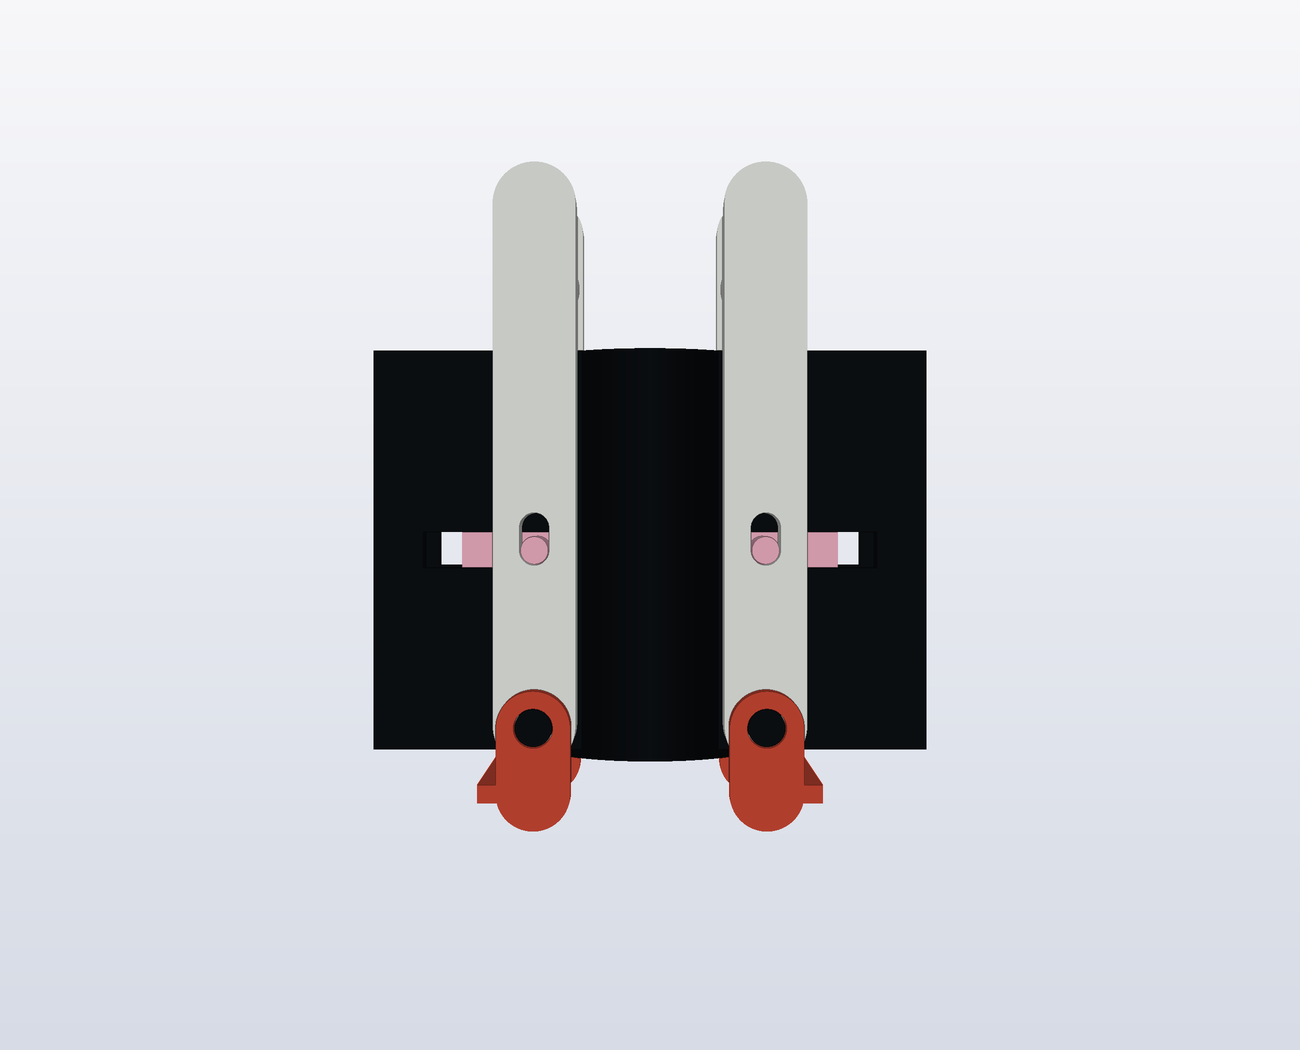
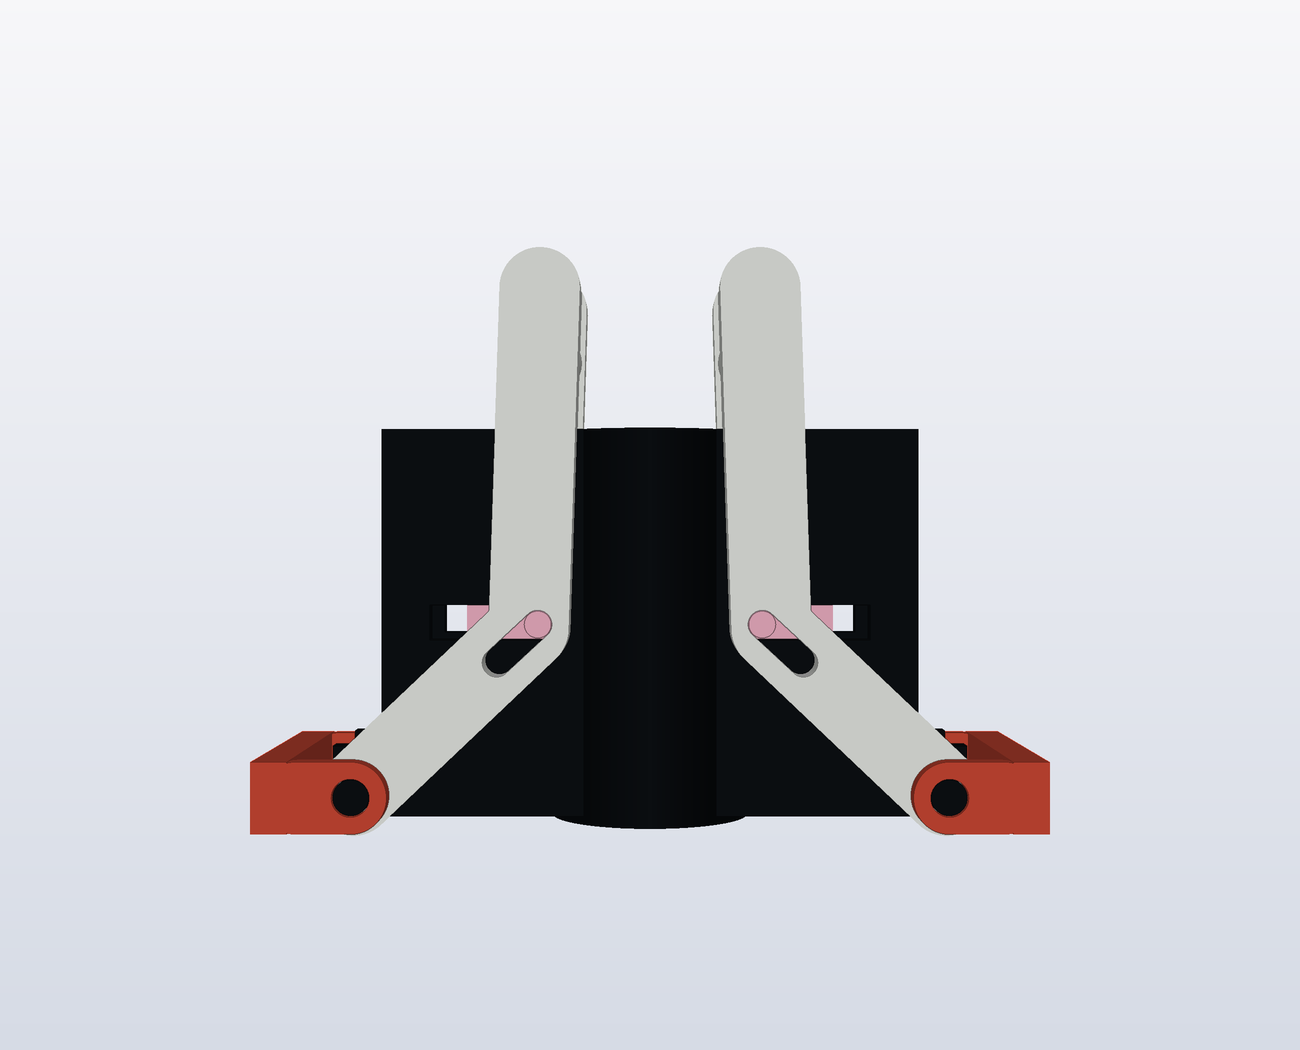
twist-grip: move the pivot outboard, crank the lever, brace off the front
The pivot post moves from r 25 to r 66, past the end of the guide wall,
on a boss off each wall. The brace that caps it now reaches across beside
the body at z 0..16 instead of wrapping round the entrance, so the way in
is clear.

The crank the sketch anticipated is needed, and for a reason worth
writing down: span is twice wherever the hand lands, so a straight bar
from a pivot that far out would put the hand out there too. The lever
runs inboard from the pivot to the drive slot, then back and in to the
grab bar at r 25.

Moving the pivot out pays for itself twice over. The arm is longer and
leans inboard, so the same 20 mm of jaw travel takes 18.3 degrees of
swing instead of 27.8, and the squeeze drops from a 93 mm stroke to 67:
117 mm open against 50 shut, which a hand can actually close. Springing
the lever onto the posts eases from 54 N to 43 N at 1.20% strain.

The arm no longer meets the drive post square, so the post slides
55.9 -> 43.4 mm along it and the slot grows to 12.49 mm. The slot is cut
along the arm, not along the lever's long branch.

One ordering bug found by the checks: the pivot boss was being fused on
after the grooves were cut, which filled the outer end of the front
groove -- exactly where that runner sits at full open, so the jaw jammed
on it at one end of the travel and nowhere else. The boss now goes on
before the grooves.

41 checks, all passing, including four new ones: the pivot outboard of
[…]

Changed region(s): [[0.1846, 0.1524, 0.8308, 0.7924]]

diff --git a/twist-grip/concept_lever.py b/twist-grip/concept_lever.py
@@ -83,18 +83,35 @@ BRACE_Y0 = LEVER_Y1 + FIT              # 26.55
 BRACE_T = 4.0
 BRACE_Y1 = BRACE_Y0 + BRACE_T          # 30.55
 
-PIVOT = (25.0, 8.0)                    # near the front, on the wall's face
+# The pivot sits OUTBOARD of the body, past the walls, so the brace that
+# caps it can reach across from one side to the other beside the body
+# instead of wrapping round the front of the entrance. It costs a boss on
+# each wall and buys a longer, more inclined arm: 18.3 degrees of swing
+# instead of 27.8, and a 67 mm squeeze instead of 93.
+PIVOT = (66.0, 8.0)
+PIVOT_BOSS_X = (56.0, 72.0)
+PIVOT_BOSS_Z = (2.0, 18.0)
 DRIVE_Z = (JAW_Z0 + JAW_Z1) / 2.0      # 46.0, the middle of the jaw
-ARM = DRIVE_Z - PIVOT[1]               # 60.0
-DRIVE_LOCAL = PIVOT[0]                 # the post's x in jaw-local terms
-PSI_OPEN = math.atan(P.JAW_TRAVEL / ARM)
+DRIVE_LOCAL = 25.0                     # the post's x in jaw-local terms
+DZ_ARM = DRIVE_Z - PIVOT[1]            # 38.0, the only term that sets sense
+# The arm now leans inboard, so its angle -- not a plain tangent -- carries
+# the jaw. Rotation about the pivot drops the arm's polar angle, and the
+# post, held at one height by the runners, slides along the arm as it goes.
+ALPHA_SHUT = math.atan2(DZ_ARM, DRIVE_LOCAL - PIVOT[0])
+ALPHA_OPEN = math.atan2(DZ_ARM, DRIVE_LOCAL + P.JAW_TRAVEL - PIVOT[0])
+PSI_OPEN = ALPHA_SHUT - ALPHA_OPEN
 PSI_SHUT = 0.0
+ARM_SHUT = DZ_ARM / math.sin(ALPHA_SHUT)
+ARM_OPEN = DZ_ARM / math.sin(ALPHA_OPEN)
 LEVER_OVERHANG = 40.0
 LEVER_TIP_Z = BODY_H + LEVER_OVERHANG   # 130
 POST_D, DRIVE_D = 8.0, 6.0
 LEVER_HALF_W = 9.0
 GRIP_R = 8.0                           # the round bar tying the two sides
-GRIP_D = 100.0                         # the earliest it clears the body
+GRIP_Z = 108.0                         # the grab bar, clear behind the body
+KNEE = (27.0, 45.0)                    # where the lever cranks inboard
+LEVER_END = (24.5, 121.0)
+BRACE_WEB_X = (80.0, 88.0)             # the web crosses outboard of the lever
 
 RAIL_X = (19.0, 39.0)
 GROOVE_X = (RAIL_X[0], RAIL_X[1] + P.JAW_TRAVEL)
@@ -122,12 +139,14 @@ SHOW = dict(ambient=0.74, key=0.34, fill=0.20, spec=0.12, edges=0.46)
 # ---------------------------------------------------------------------------
 
 def face_at(psi):
-    """Radius of the jaw's gripping face: 0 shut, 20 mm open.
+    """Radius of the jaw's gripping face: 0 shut, 20 mm open."""
+    return (PIVOT[0] + DZ_ARM / math.tan(ALPHA_SHUT - psi)) - DRIVE_LOCAL
 
-    The jaw post sits at one fixed height, so the lever's angle and the
-    jaw's radius are related by a tangent, not a sine.
-    """
-    return ARM * math.tan(psi)
+
+def on_arm(r):
+    """A point r along the arm, in the lever's own (shut) frame."""
+    return (PIVOT[0] + r * math.cos(ALPHA_SHUT),
+            PIVOT[1] + r * math.sin(ALPHA_SHUT))
 
 
 def drive_at(psi):
@@ -141,7 +160,7 @@ def swung(mesh, psi):
     return m
 
 
-SLOT_RUN = math.hypot(ARM, P.JAW_TRAVEL) - ARM      # 3.25 mm
+SLOT_RUN = ARM_SHUT - ARM_OPEN
 
 
 # ---------------------------------------------------------------------------
@@ -206,6 +225,13 @@ def _wall(sign):
     w = T.bar(WALL_X[1] - WALL_X[0], WALL_Y1 - WALL_Y0,
               WALL_Z[0], WALL_Z[1], x0=WALL_X[0])
     w.apply_translation((0.0, sign * (WALL_Y0 + WALL_Y1) / 2.0, 0.0))
+    # the boss goes on before the grooves are cut: added after, it fills the
+    # outer end of the front groove, exactly where that runner sits at full
+    # open, and the jaw jams on it
+    boss = T.bar(PIVOT_BOSS_X[1] - PIVOT_BOSS_X[0], WALL_Y1 - WALL_Y0,
+                 *PIVOT_BOSS_Z, x0=PIVOT_BOSS_X[0])
+    boss.apply_translation((0.0, sign * (WALL_Y0 + WALL_Y1) / 2.0, 0.0))
+    w = T.fuse(w, boss)
     for zc in RAIL_Z:
         w = T.cut(w, prism_x(vee(WALL_Y0 - 1.35, GROOVE_TIP, zc, sign),
                              GROOVE_X[0], GROOVE_X[1]))
@@ -255,48 +281,50 @@ def jaw(psi, index):
     return T.spun(solid, 180.0 * index)
 
 
-def lever(psi, index, grip_d=GRIP_D):
-    """One piece. Two plates straddling the body, each with a round hole on
-    the pivot post and a short slot on the jaw post, tied near the far end
-    by a round bar that is also what the hand closes on.
+def grip_xy():
+    """Where the grab bar sits, on the lever's long branch."""
+    (kx, kz), (ex, ez) = KNEE, LEVER_END
+    t = (GRIP_Z - kz) / (ez - kz)
+    return (kx + t * (ex - kx), GRIP_Z)
 
-    The bar has to sit past the back of the body. It spans the whole width,
-    so anywhere inside the body's own length it would run straight through
-    the guide walls -- there is no path from one side to the other except
-    in front of the entrance or behind the back face, and only the back has
-    any leverage.
+
+def lever(psi, index):
+    """One cranked piece. The pivot hole is outboard, past the body; the
+    arm leans inboard to the drive slot, and the long branch carries on
+    back to the grab bar that ties the two sides together.
+
+    The crank is what the outboard pivot costs. A straight bar from a
+    pivot that far out would put the hand out there too, and the span is
+    twice wherever the hand lands.
     """
-    px, pz = PIVOT
-    # the plates stop at the pivot: a tail behind would sweep into the
-    # brace's web, which crosses in front of the body
-    spine = LineString([(px, pz),
-                        (px, LEVER_TIP_Z - LEVER_HALF_W)]).buffer(
-                            LEVER_HALF_W, resolution=16)
+    spine = LineString([PIVOT, KNEE, LEVER_END]).buffer(
+        LEVER_HALF_W, resolution=16)
     pieces = [plate(spine, LEVER_T, LEVER_Y0),
               plate(spine, LEVER_T, -LEVER_Y1),
-              pin(2 * GRIP_R, -LEVER_Y1, LEVER_Y1, (px, pz + grip_d), 1)]
+              pin(2 * GRIP_R, -LEVER_Y1, LEVER_Y1, grip_xy(), 1)]
 
     bore = pin(POST_D + 0.35, -60.0, 60.0, PIVOT, 1)
-    slot_poly = LineString([(px, pz + ARM),
-                            (px, pz + ARM + SLOT_RUN)]).buffer(
-                                (DRIVE_D + 0.35) / 2.0, resolution=16)
+    # the slot runs along the arm, because that is the way the post slides
+    slot_poly = LineString([on_arm(ARM_OPEN), on_arm(ARM_SHUT)]).buffer(
+        (DRIVE_D + 0.35) / 2.0, resolution=16)
     slot = plate(slot_poly, 200.0, -100.0)
     return T.spun(swung(T.cut(T.fuse(*pieces), bore, slot), psi),
                   180.0 * index)
 
 
 def brace(index):
-    """A C channel over one jaw's pair of pivot posts: two flanges with a
-    hole each, tied by a web that crosses clear in front of the body."""
+    """A C channel capping one jaw's pair of pivot posts. With the posts
+    outboard of the walls, its web reaches across beside the body rather
+    than wrapping round the entrance."""
     px, pz = PIVOT
-    tab = LineString([(px, -6.0), (px, pz)]).buffer(8.0, resolution=16)
+    tab = LineString([(px, pz), (BRACE_WEB_X[0] - 2.0, pz)]).buffer(
+        8.0, resolution=16)
     pieces = [plate(tab, BRACE_T, BRACE_Y0),
               plate(tab, BRACE_T, -BRACE_Y1),
-              # the web crosses in front of the body, kept outboard of the
-              # entrance chamfer so nothing narrows the way in
-              T.bar(14.0, 2 * BRACE_Y1, -8.0, -4.0, x0=px - 2.0)]
-    holes = [pin(POST_D + 0.35, -60.0, 60.0, PIVOT, 1)]
-    return T.spun(T.cut(T.fuse(*pieces), *holes), 180.0 * index)
+              T.bar(BRACE_WEB_X[1] - BRACE_WEB_X[0], 2 * BRACE_Y1,
+                    0.0, 16.0, x0=BRACE_WEB_X[0])]
+    hole = pin(POST_D + 0.35, -60.0, 60.0, PIVOT, 1)
+    return T.spun(T.cut(T.fuse(*pieces), hole), 180.0 * index)
 
 
 def scene(psi, braces=True):
@@ -349,8 +377,8 @@ def checks():
     ok("the brace is one piece",
        len(br.split(only_watertight=False)) == 1)
     ok("the lever runs 40 mm past the body",
-       abs((lv.bounds[1][2] - BODY_H) - LEVER_OVERHANG) < 1e-6,
-       f"tip at z {lv.bounds[1][2]:.0f}")
+       abs((lv.bounds[1][2] - BODY_H) - LEVER_OVERHANG) < 0.3,
+       f"{lv.bounds[1][2] - BODY_H:.1f} mm past, tip at z {lv.bounds[1][2]:.1f}")
     ok("the jaw post stops flush with the lever's outer face",
        abs(DRIVE_TIP - LEVER_Y1) < 0.35,
        f"post {DRIVE_TIP:.2f}, lever face {LEVER_Y1:.2f}")
@@ -386,11 +414,26 @@ def checks():
     worst = max(_overlap(bd, lever(PSI_OPEN * k / 8.0, 0)) for k in range(9))
     ok("the grab bar clears the body right through the stroke",
        worst < 1e-6, f"worst {worst:.3f} mm^3 over 9 positions")
+
+    gx, _ = grip_xy()
+    grip_arm = math.hypot(gx - PIVOT[0], GRIP_Z - PIVOT[1])
     spread = POST_TIP - LEVER_Y0
-    strain = 3 * LEVER_T * spread / (2 * GRIP_D ** 2)
+    strain = 3 * LEVER_T * spread / (2 * grip_arm ** 2)
     ok("the lever can be sprung onto the posts without yielding",
        strain < 0.02,
        f"{spread:.1f} mm a side, {100 * strain:.2f}% strain")
+
+    ok("the pivot post stands outboard of the guide wall",
+       PIVOT[0] - POST_D / 2.0 > WALL_X[1] or
+       PIVOT_BOSS_X[1] > WALL_X[1], f"pivot at x {PIVOT[0]:.0f}, wall ends {WALL_X[1]:.0f}")
+    ok("the brace stays off the front of the entrance",
+       br.bounds[0][2] >= -1e-9, f"nearest face at z {br.bounds[0][2]:.1f}")
+    ok("the brace's web reaches across outboard of the lever",
+       BRACE_WEB_X[0] > lv.bounds[1][0],
+       f"web from x {BRACE_WEB_X[0]:.0f}, lever reaches {lv.bounds[1][0]:.0f}")
+    ok("the drive post still slides along the arm, not across it",
+       abs(ARM_SHUT - ARM_OPEN - SLOT_RUN) < 1e-9,
+       f"arm {ARM_SHUT:.1f} -> {ARM_OPEN:.1f} mm")
 
     for tag, psi in (("open", PSI_OPEN), ("half", PSI_OPEN / 2), ("shut", PSI_SHUT)):
         j, lv2 = jaw(psi, 0), lever(psi, 0)
@@ -458,7 +501,7 @@ def renders(out):
 
     # the post stack, drawn apart: body post, lever, brace
     apart = [{"mesh": _wall(1), "color": COL_DETAIL}]
-    lv = lever(PSI_SHUT, 0, 1)
+    lv = lever(PSI_SHUT, 0)
     lv.apply_translation((0.0, 26.0, 0.0))
     apart.append({"mesh": lv, "color": COL["lever"]})
     br = brace(0)
@@ -509,18 +552,16 @@ if __name__ == "__main__":
     renders(Path(__file__).parent / "renders")
     # The hand now closes on the bar, so there is only one grip point left
     # to quote, and it is the one the bar's clearance forces.
-    s = GRIP_D * math.sin(PSI_OPEN)
-    print(f"  grab bar {GRIP_D:.0f} mm along the lever:"
-          f" span {2 * (PIVOT[0] + s):.0f} mm open -> {2 * PIVOT[0]:.0f} shut,"
-          f" a {2 * s:.0f} mm stroke")
+    gx, gz = grip_xy()
+    R = math.hypot(gx - PIVOT[0], gz - PIVOT[1])
+    beta = math.atan2(gz - PIVOT[1], gx - PIVOT[0])
+    gx_o = PIVOT[0] + R * math.cos(beta - PSI_OPEN)
+    print(f"  grab bar: span {2 * gx_o:.0f} mm open -> {2 * gx:.0f} shut,"
+          f" a {2 * (gx_o - gx):.0f} mm stroke")
     # full travel is a 93 mm stroke, wider than a hand opens. What matters
     # is how far it has to open to admit a finger, which is a lot less.
-    for span in (100.0, 105.0, 110.0):
-        psi = math.asin((span / 2.0 - PIVOT[0]) / GRIP_D)
-        print(f"  opening to a {span:.0f} mm span gives a "
-              f"{2 * face_at(psi):.1f} mm gap between the jaw faces")
     spread = POST_TIP - LEVER_Y0
     print(f"  springing it on: {spread:.1f} mm a side, "
-          f"{100 * 3 * LEVER_T * spread / (2 * GRIP_D ** 2):.2f}% strain, "
-          f"{2000 * 2 * LEVER_HALF_W * LEVER_T ** 3 * spread / (4 * GRIP_D ** 3):.0f} N")
+          f"{100 * 3 * LEVER_T * spread / (2 * R ** 2):.2f}% strain, "
+          f"{2000 * 2 * LEVER_HALF_W * LEVER_T ** 3 * spread / (4 * R ** 3):.0f} N")
     sys.exit(0 if good else 1)
